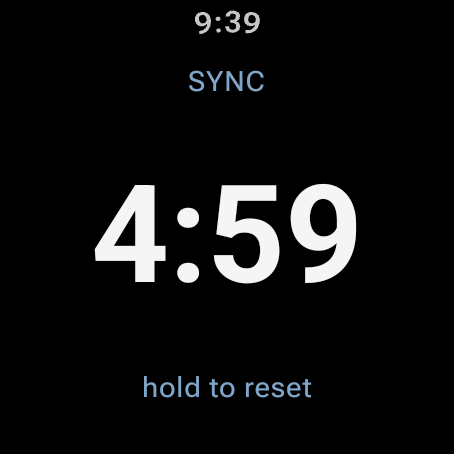
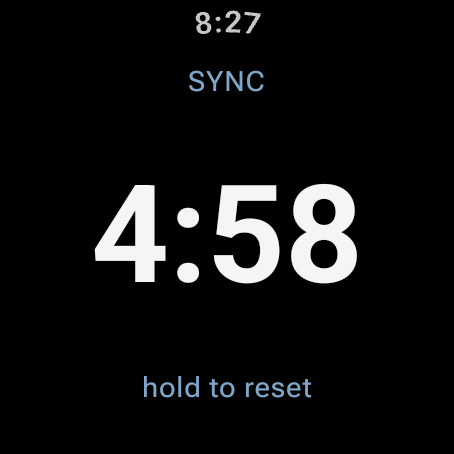
Polish: beta-tester issue form, ambient screenshot, site link in README

diff --git a/docs/index.html b/docs/index.html
@@ -43,6 +43,7 @@
       <div class="shots">
         <figure><img src="screenshots/armed.png" alt="Armed at 5:00"><figcaption>Armed</figcaption></figure>
         <figure><img src="screenshots/countdown.png" alt="Counting down"><figcaption>Countdown</figcaption></figure>
+        <figure><img src="screenshots/ambient.png" alt="Live countdown continues in ambient mode when wet"><figcaption>Wet / ambient</figcaption></figure>
         <figure><img src="screenshots/countup.png" alt="Race count-up"><figcaption>Race</figcaption></figure>
         <figure><img src="screenshots/tile.png" alt="Quick-launch tile"><figcaption>Tile</figcaption></figure>
       </div>

diff --git a/README.md b/README.md
@@ -6,6 +6,8 @@
 
 [![Android](https://github.com/johnhringiv/regatta-timer/actions/workflows/android.yml/badge.svg)](https://github.com/johnhringiv/regatta-timer/actions/workflows/android.yml)
 
+**[→ regatta-timer website](https://johnhringiv.github.io/regatta-timer/)**
+
 A sailing race start timer for Wear OS (built for and tested on the Pixel Watch 3). Fully standalone — no phone, no companion app, no account, no network. Built because nothing on the market handled a real start line: the screen must never leave the timer mid-sequence, and a missed start press must be correctable at the next gun.
 
 ## Features
@@ -18,9 +20,9 @@ A sailing race start timer for Wear OS (built for and tested on the Pixel Watch 
 - **Wet-proof**: countdown, display, and haptics keep running even when water forces the watch into ambient mode; huge half-screen touch targets; long-press-guarded reset so splashes can't kill your sequence
 - **Quick-launch tile**: swipe from the watch face, tap 5 min or 3 min, and the timer opens pre-armed
 
-| Armed | Countdown | Race | Tile |
-|---|---|---|---|
-| ![Armed](docs/screenshots/armed.png) | ![Countdown](docs/screenshots/countdown.png) | ![Count-up](docs/screenshots/countup.png) | ![Tile](docs/screenshots/tile.png) |
+| Armed | Countdown | Wet (ambient) | Race | Tile |
+|---|---|---|---|---|
+| ![Armed](docs/screenshots/armed.png) | ![Countdown](docs/screenshots/countdown.png) | ![Ambient](docs/screenshots/ambient.png) | ![Count-up](docs/screenshots/countup.png) | ![Tile](docs/screenshots/tile.png) |
 
 ## Install (sideload)
 